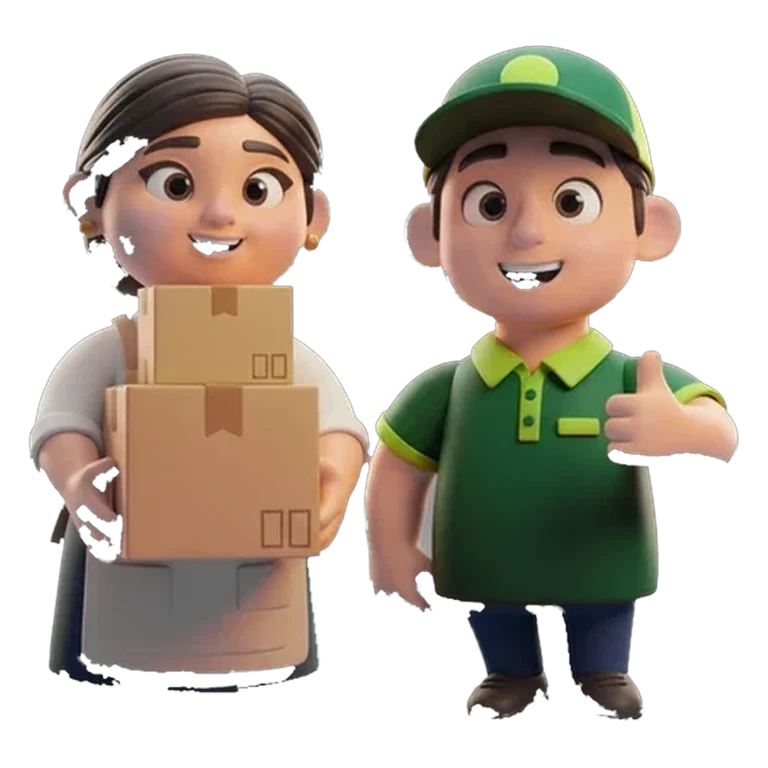
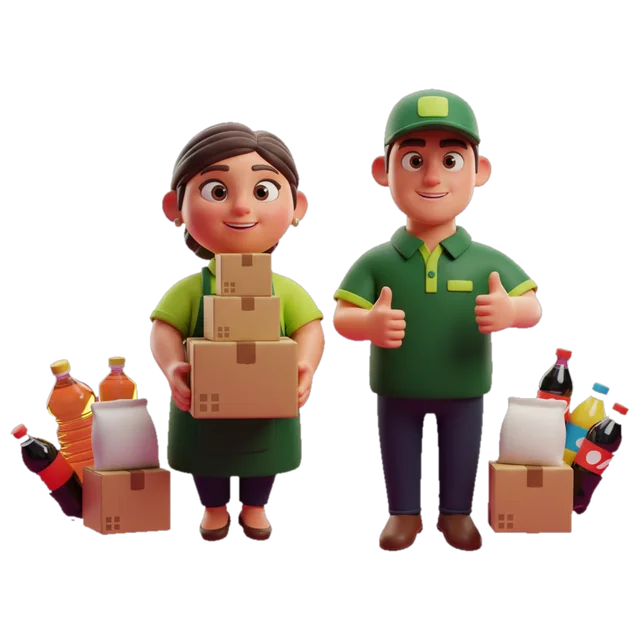
feat(ilustraciones): 10 fotos de catálogo rehechas, pedido entregado sin huecos y pago exitoso
recorte-sin-huecos.py quita solo el fondo que toca el borde: nunca agujerea la figura.

diff --git a/scripts/ilustraciones/recorte-sin-huecos.py b/scripts/ilustraciones/recorte-sin-huecos.py
@@ -1,0 +1,66 @@
+"""Recorta el fondo magenta SOLO si toca el borde (relleno desde las orillas): nunca deja huecos dentro de la figura.
+
+python -I recorte_sin_huecos.py cruda.png salida.webp [alto_maximo_fraccion]
+"""
+import sys
+from collections import deque
+
+from PIL import Image, ImageFilter
+
+cruda, salida = sys.argv[1], sys.argv[2]
+corte = float(sys.argv[3]) if len(sys.argv) > 3 else 1.0
+
+im = Image.open(cruda).convert('RGB')
+w, h = im.size
+px = im.load()
+
+
+def magenta(c):
+    r, g, b = c
+    # Magenta o frambuesa (el modelo a veces pinta un degradé): rojo y azul muy por encima del verde
+    return r - g > 55 and b - g > 25 and r > 110
+
+
+fondo = bytearray(w * h)
+cola = deque()
+for x in range(w):
+    for y in (0, h - 1):
+        if magenta(px[x, y]):
+            cola.append((x, y))
+for y in range(h):
+    for x in (0, w - 1):
+        if magenta(px[x, y]):
+            cola.append((x, y))
+while cola:
+    x, y = cola.popleft()
+    i = y * w + x
+    if fondo[i]:
+        continue
+    fondo[i] = 1
+    for nx, ny in ((x + 1, y), (x - 1, y), (x, y + 1), (x, y - 1)):
+        if 0 <= nx < w and 0 <= ny < h and not fondo[ny * w + nx] and magenta(px[nx, ny]):
+            cola.append((nx, ny))
+
+alfa = Image.new('L', (w, h))
+alfa.putdata([0 if f else 255 for f in fondo])
+# Borde suave y sin halo magenta
+alfa = alfa.filter(ImageFilter.MinFilter(3)).filter(ImageFilter.GaussianBlur(1))
+rgba = im.convert('RGBA')
+rgba.putalpha(alfa)
+datos = rgba.load()
+for y in range(h):
+    for x in range(w):
+        r, g, b, a = datos[x, y]
+        if 0 < a < 255 and r > g + 40 and b > g + 40:
+            m = min(r, b)
+            datos[x, y] = (max(g, r - (m - g)), g, max(g, b - (m - g)), a)
+
+if corte < 1:
+    rgba = rgba.crop((0, 0, w, int(h * corte)))
+caja = rgba.getbbox()
+rgba = rgba.crop(caja)
+lado = max(rgba.size) + 24
+lienzo = Image.new('RGBA', (lado, lado), (0, 0, 0, 0))
+lienzo.paste(rgba, ((lado - rgba.size[0]) // 2, (lado - rgba.size[1]) // 2), rgba)
+lienzo.resize((640, 640), Image.LANCZOS).save(salida, 'WEBP', quality=85, method=6)
+print('ok', salida)
